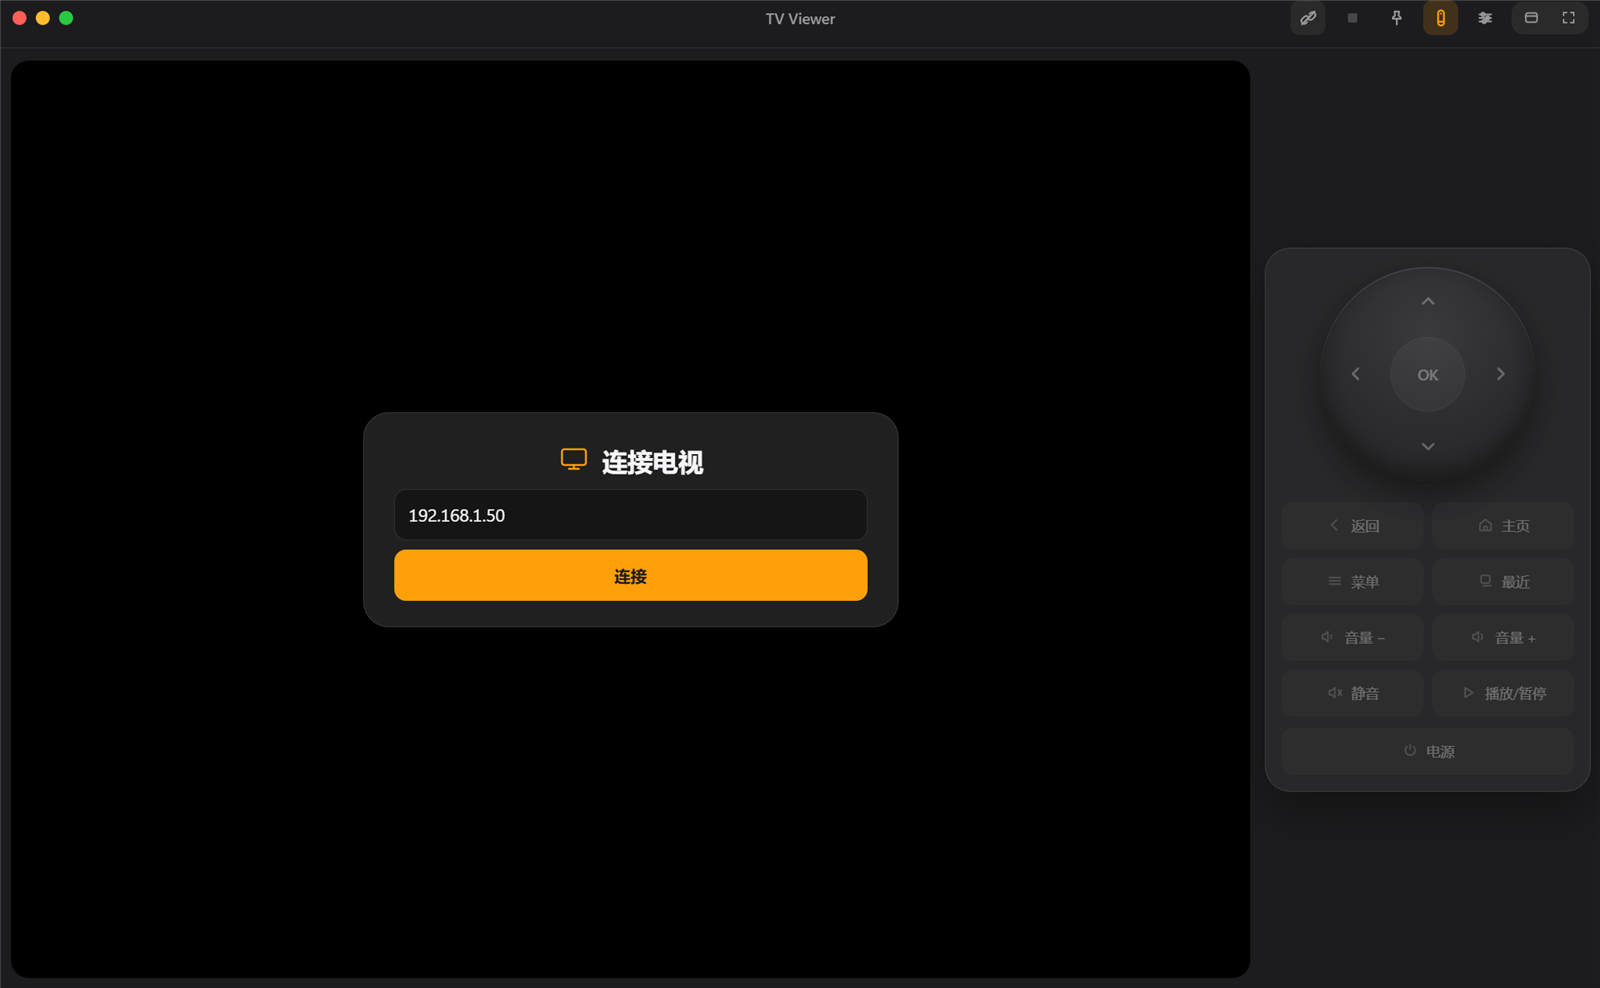
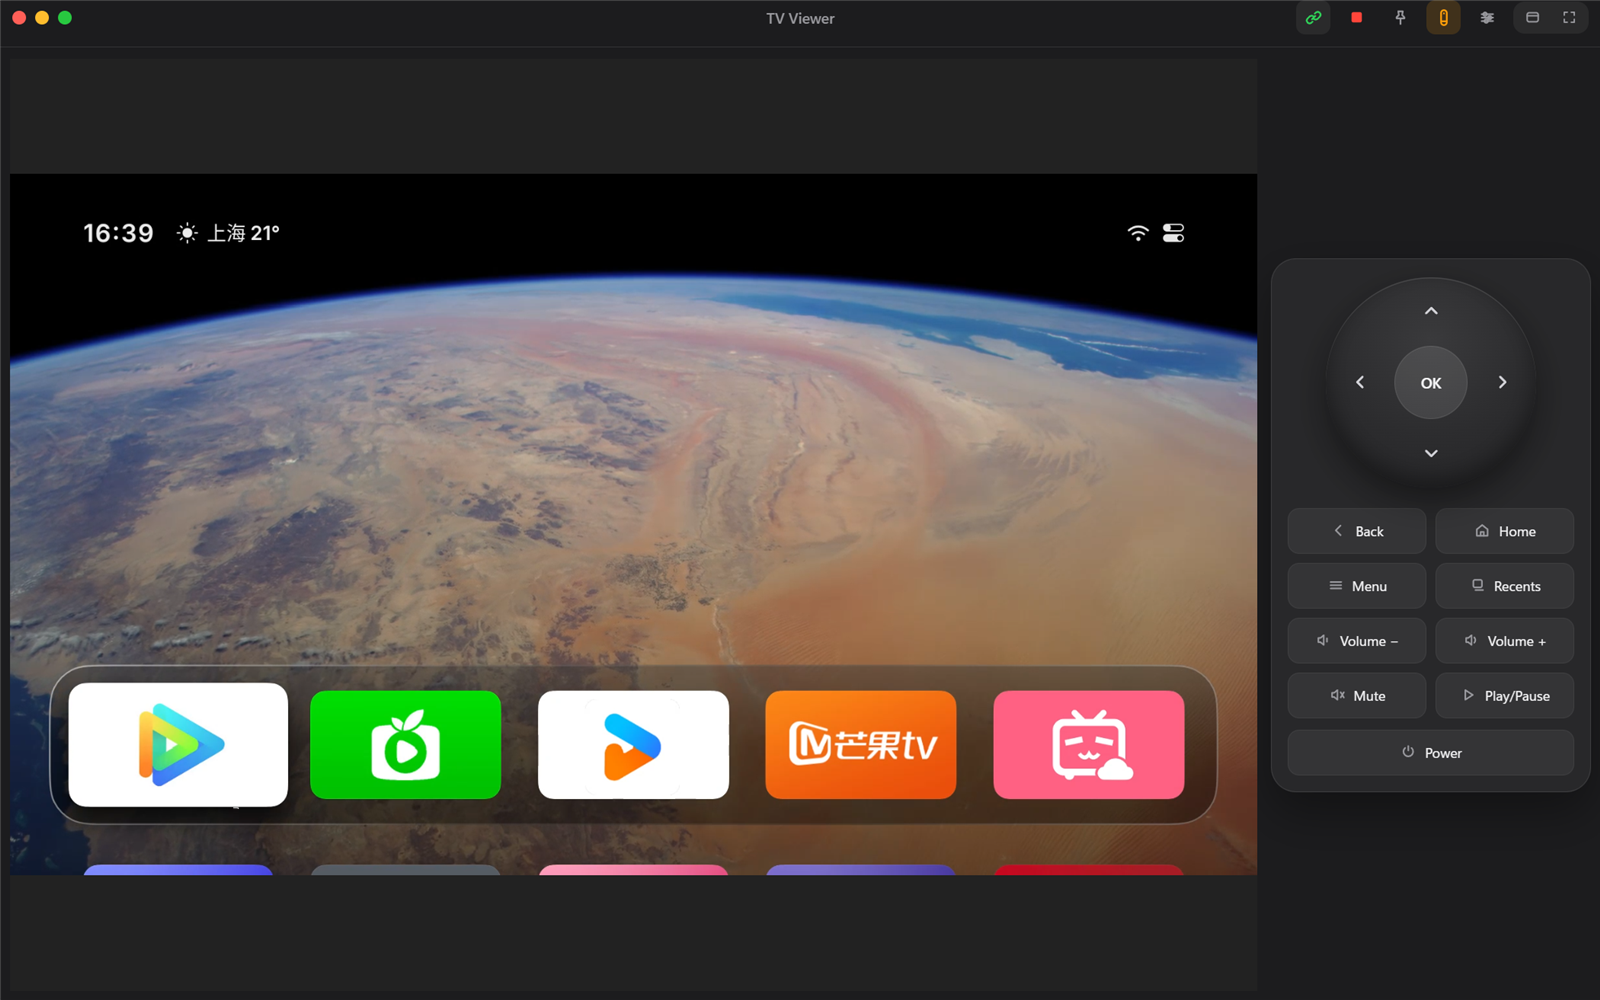
Reorganize project layout and use current app screenshot as hero
Rename remote to app, move CLI wrappers to cli/, move app docs to docs/, and replace the hero image with a real connected session.

diff --git a/README.md b/README.md
@@ -117,12 +117,21 @@ Get-FileHash .\tv-viewer-setup-0.1.0-x64.exe -Algorithm SHA256
 
 ```bash
 winget install Genymobile.scrcpy
-cd remote
+cd app
 npm install
 npm start
 ```
 
-装好依赖后也可以双击 `remote/tv-viewer.cmd`，不弹控制台。
+装好依赖后也可以双击 `app/tv-viewer.cmd`，不弹控制台。
+
+### 命令行（可选）
+
+```bash
+./cli/tv-view.sh 192.168.50.33
+./cli/tv-shot.sh before.png 192.168.50.33
+```
+
+Git Bash 用 `.sh`，cmd / PowerShell 用 `cli\tv-view.cmd` 和 `cli\tv-shot.cmd`。完整用法见 [cli/README.md](cli/README.md)。
 
 ## 快捷键
 
@@ -155,7 +164,7 @@ macOS、Linux 和其他电视型号尚未验证。
 - **需要 root 吗？** 不需要。
 - **有声音吗？** 没有，声音仍从电视出。
 - **支持 macOS / Linux 吗？** 命令行可以；带遥控器和窗口嵌入的 GUI 目前仅 Windows。
-- **支持 Android 4.x 吗？** 画面功能要求 Android 5.0+；4.x 只能用 `tv-shot` 截图。
+- **支持 Android 4.x 吗？** 画面功能要求 Android 5.0+；4.x 只能用 `cli/tv-shot` 截图。
 - **能同时连两台电视吗？** 一个窗口一台，多实例的全局快捷键会冲突。
 
 更多问题和排查步骤见 [故障排查](docs/TROUBLESHOOTING.md)。
@@ -186,10 +195,10 @@ macOS、Linux 和其他电视型号尚未验证。
 | --- | --- |
 | [故障排查](docs/TROUBLESHOOTING.md) | 连不上、授权、无线调试、嵌入失败、按键、重连、FAQ |
 | [开发与构建](docs/DEVELOPMENT.md) | 目录、IPC、窗口嵌入原理、配置字段、i18n、打包和发布 |
-| [应用细节](remote/README.md) | 界面、显示模式、遥控器、设置、已验证项 |
-| [设计系统](remote/DESIGN.md) | 颜色、字体、布局、组件和设计约束 |
-| [产品说明](remote/PRODUCT.md) | 目标用户、定位、能力边界 |
-| [第三方许可](remote/THIRD_PARTY_NOTICES.md) | scrcpy、adb、Electron 的许可说明（外部依赖不随包分发） |
+| [应用细节](docs/APP.md) | 界面、显示模式、遥控器、设置、已验证项 |
+| [设计系统](docs/DESIGN.md) | 颜色、字体、布局、组件和设计约束 |
+| [产品说明](docs/PRODUCT.md) | 目标用户、定位、能力边界 |
+| [第三方许可](app/THIRD_PARTY_NOTICES.md) | scrcpy、adb、Electron 的许可说明（外部依赖不随包分发） |
 | [贡献指南](CONTRIBUTING.md) | 报 bug、提 PR、代码约定 |
 | [安全说明](SECURITY.md) | 威胁模型、ADB 端口风险、加固建议 |
 | [更新日志](CHANGELOG.md) | 版本变更 |
@@ -200,7 +209,7 @@ macOS、Linux 和其他电视型号尚未验证。
 <summary>展开目录</summary>
 
 ```text
-remote/                  Electron 桌面应用
+app/                    Electron 桌面应用
   main.js                adb / scrcpy / 窗口嵌入 / IPC / 全局快捷键
   preload.js             contextBridge 暴露的最小 API
   renderer.js            界面状态、遥控按键、窗口拖动、画面区域上报
@@ -208,9 +217,20 @@ remote/                  Electron 桌面应用
   index.html style.css   无边框界面
   i18n.js                中英文文案
   electron-builder.yml   Windows 打包配置
-tv-view.sh / .cmd        命令行查看画面
-tv-shot.sh / .cmd        命令行截图
-docs/                    故障排查、开发与构建
+  build/ scripts/        图标与构建脚本
+  THIRD_PARTY_NOTICES.md 随安装包分发的第三方许可
+cli/                    命令行工具
+  tv-view.sh / .cmd      命令行查看画面
+  tv-shot.sh / .cmd      命令行截图
+  README.md              用法说明
+docs/                   项目文档
+  APP.md                 应用细节
+  DESIGN.md              设计系统
+  PRODUCT.md             产品说明
+  DEVELOPMENT.md         开发与构建
+  TROUBLESHOOTING.md     故障排查
+  images/                主图
+  releases/              版本发布说明
 ```
 
 主进程启动 scrcpy，渲染进程把画面区域的 CSS 矩形通过 IPC 报给主进程，PowerShell 用 `SetParent` 把 scrcpy 窗口嵌进 Electron 窗口并定位；按键走 `adb shell input keyevent`，不依赖 scrcpy 窗口焦点。
@@ -220,7 +240,7 @@ docs/                    故障排查、开发与构建
 ## 开发
 
 ```bash
-cd remote
+cd app
 npm install
 npm start       # 开发运行
 npm run check   # node --check 语法检查
@@ -229,7 +249,7 @@ npm run check   # node --check 语法检查
 打包 Windows 安装版和便携版：
 
 ```bash
-cd remote
+cd app
 npm run dist           # 产物在 dist/
 ```
 

diff --git a/README.en.md b/README.en.md
@@ -115,12 +115,21 @@ Requirements: Windows 10/11, Node.js 22+, scrcpy (which bundles adb).
 
 ```bash
 winget install Genymobile.scrcpy
-cd remote
+cd app
 npm install
 npm start
 ```
 
-ADB debugging must be enabled on the TV, and both devices must be on the same LAN. After the first install you can also double-click `remote/tv-viewer.cmd`.
+ADB debugging must be enabled on the TV, and both devices must be on the same LAN. After the first install you can also double-click `app/tv-viewer.cmd`.
+
+### CLI (optional)
+
+```bash
+./cli/tv-view.sh 192.168.50.33
+./cli/tv-shot.sh before.png 192.168.50.33
+```
+
+Use `.cmd` (`cli\tv-view.cmd`, `cli\tv-shot.cmd`) in cmd / PowerShell. See [cli/README.md](cli/README.md) for full usage.
 
 ## Shortcuts
 
@@ -153,7 +162,7 @@ macOS, Linux and other TV models are not verified.
 - **Is root required?** No.
 - **Is there audio?** No; audio still comes from the TV.
 - **macOS / Linux?** The CLI scripts work; the GUI with the embedded picture is Windows-only for now.
-- **Android 4.x?** The picture requires Android 5.0+; 4.x is limited to screenshots via `tv-shot`.
+- **Android 4.x?** The picture requires Android 5.0+; 4.x is limited to screenshots via `cli/tv-shot`.
 - **Two TVs at once?** One TV per window; multiple instances fight over the global shortcuts.
 
 More answers and diagnostics: [Troubleshooting](docs/TROUBLESHOOTING.md).
@@ -184,10 +193,10 @@ See [Security](SECURITY.md) for the threat model.
 | --- | --- |
 | [Troubleshooting](docs/TROUBLESHOOTING.md) | Connection, authorization, wireless debugging, embedding, keys, FAQ |
 | [Development](docs/DEVELOPMENT.md) | Layout, IPC, window embedding, config, i18n, packaging |
-| [App details](remote/README.md) | UI, display modes, remote, settings |
-| [Third-party notices](remote/THIRD_PARTY_NOTICES.md) | scrcpy, adb and Electron licenses |
-| [Design system](remote/DESIGN.md) | Colors, type, layout, components |
-| [Product notes](remote/PRODUCT.md) | Users, positioning, scope |
+| [App details](docs/APP.md) | UI, display modes, remote, settings |
+| [Third-party notices](app/THIRD_PARTY_NOTICES.md) | scrcpy, adb and Electron licenses |
+| [Design system](docs/DESIGN.md) | Colors, type, layout, components |
+| [Product notes](docs/PRODUCT.md) | Users, positioning, scope |
 | [Contributing](CONTRIBUTING.md) | Issues, PRs, code conventions |
 | [Security](SECURITY.md) | Threat model and hardening |
 | [Changelog](CHANGELOG.md) | Version history |
@@ -198,7 +207,7 @@ See [Security](SECURITY.md) for the threat model.
 <summary>Show the tree</summary>
 
 ```text
-remote/                  Electron app
+app/                    Electron app
   main.js                ADB / scrcpy / embedding / IPC / shortcuts
   preload.js             contextBridge API
   renderer.js            UI state, remote keys, window drag, stage rect
@@ -206,9 +215,20 @@ remote/                  Electron app
   index.html style.css   Frameless UI
   i18n.js                Chinese / English strings
   electron-builder.yml   Windows packaging
-tv-view.sh / .cmd        CLI picture viewer
-tv-shot.sh / .cmd        CLI screenshot
-docs/                    Troubleshooting, development, releases
+  build/ scripts/        Icon and build scripts
+  THIRD_PARTY_NOTICES.md Third-party licenses shipped with the installer
+cli/                    Command-line tools
+  tv-view.sh / .cmd      CLI picture viewer
+  tv-shot.sh / .cmd      CLI screenshot
+  README.md              Usage
+docs/                   Project documentation
+  APP.md                 App details
+  DESIGN.md              Design system
+  PRODUCT.md             Product notes
+  DEVELOPMENT.md         Development and packaging
+  TROUBLESHOOTING.md     Troubleshooting
+  images/                Hero image
+  releases/              Release notes
 ```
 
 The main process starts scrcpy; the renderer reports the stage rectangle over IPC; PowerShell uses `SetParent` to embed the scrcpy window and position it. Keys go through `adb shell input keyevent`, independent of the scrcpy window focus.
@@ -218,7 +238,7 @@ The main process starts scrcpy; the renderer reports the stage rectangle over IP
 ## Development
 
 ```bash
-cd remote
+cd app
 npm install
 npm start       # development
 npm run check   # node --check
@@ -227,7 +247,7 @@ npm run check   # node --check
 Package the installer and portable build:
 
 ```bash
-cd remote
+cd app
 npm run dist           # artifacts in dist/
 ```
 

diff --git a/docs/DEVELOPMENT.md b/docs/DEVELOPMENT.md
@@ -17,7 +17,7 @@
 ## 启动
 
 ```bash
-cd remote
+cd app
 npm install
 npm start
 ```
@@ -33,7 +33,7 @@ npm run check
 ## 目录
 
 ```
-remote/
+app/
   main.js              主进程：adb / scrcpy / 窗口嵌入 / IPC / 快捷键 / 配置
   preload.js           contextBridge 白名单
   renderer.js          界面状态、遥控按键、窗口拖动、画面矩形上报
@@ -47,9 +47,18 @@ remote/
   dist/                打包产物（不提交）
   THIRD_PARTY_NOTICES.md
   tv-viewer.cmd        双击启动（需先 npm install）
-tv-view.sh / .cmd      命令行查看画面
-tv-shot.sh / .cmd      命令行截图
-docs/                  故障排查、开发文档
+cli/                   命令行工具
+  tv-view.sh / .cmd    命令行查看画面
+  tv-shot.sh / .cmd    命令行截图
+  README.md            用法说明
+docs/                  项目文档
+  APP.md               应用细节
+  DESIGN.md            设计系统
+  PRODUCT.md           产品说明
+  DEVELOPMENT.md       开发与构建
+  TROUBLESHOOTING.md   故障排查
+  images/              主图
+  releases/            版本发布说明
 ```
 
 ## 进程模型
@@ -135,7 +144,7 @@ flowchart LR
 - 新增文案时同时补 `zh` 和 `en`，并在 HTML 里加对应 `data-i18n*`。可以用下面的命令检查两边 key 是否对齐：
 
 ```bash
-cd remote
+cd app
 node -e "global.window={};require('./i18n.js');const d=window.TV_I18N;const z=Object.keys(d.zh),e=Object.keys(d.en);console.log(z.length,e.length);console.log(z.filter(k=>!(k in d.en)),e.filter(k=>!(k in d.zh)))"
 ```
 
@@ -150,7 +159,7 @@ node -e "global.window={};require('./i18n.js');const d=window.TV_I18N;const z=Ob
 
 ## 打包
 
-使用 electron-builder，配置在 `remote/electron-builder.yml`。
+使用 electron-builder，配置在 `app/electron-builder.yml`。
 
 1. 安装依赖：`npm install`
 2. 图标已经提交在 `build/icon.ico`。改设计时运行 `npm run make-icon` 重新生成 PNG，再用仓库里的方式转成 ICO。
@@ -173,7 +182,7 @@ npm run pack    # 只生成 dist/win-unpacked/，用于快速验证
 - `app.asar.unpacked/embed-scrcpy.ps1`：PowerShell 必须能按真实路径执行，所以用 `asarUnpack` 解包；
 - `THIRD_PARTY_NOTICES.md`、`LICENSE.txt`。
 
-安装包不包含 scrcpy / adb，体积只包含 Electron 应用本身。运行时 `findAdb()` / `findScrcpy()` 按 `ADB` / `SCRCPY` 环境变量、Android SDK、PATH、WinGet 安装位置的顺序查找。`app.isPackaged` 为真时，`embed-scrcpy.ps1` 从 `app.asar.unpacked` 读取；开发运行时仍用 `remote/` 下的文件。
+安装包不包含 scrcpy / adb，体积只包含 Electron 应用本身。运行时 `findAdb()` / `findScrcpy()` 按 `ADB` / `SCRCPY` 环境变量、Android SDK、PATH、WinGet 安装位置的顺序查找。`app.isPackaged` 为真时，`embed-scrcpy.ps1` 从 `app.asar.unpacked` 读取；开发运行时仍用 `app/` 下的文件。
 
 许可证：scrcpy 和 adb 由用户自行安装，不随本应用分发，各自遵循 Apache-2.0；`THIRD_PARTY_NOTICES.md` 只说明依赖关系。Electron 的 MIT 许可见安装目录里的 Electron 许可文件。
 
@@ -183,13 +192,13 @@ npm run pack    # 只生成 dist/win-unpacked/，用于快速验证
 
 ## 发布
 
-1. 更新 `remote/package.json` 的 `version` 和 `CHANGELOG.md`。
-2. `cd remote && npm run check`。
+1. 更新 `app/package.json` 的 `version` 和 `CHANGELOG.md`。
+2. `cd app && npm run check`。
 3. `npm run dist`，然后用 `git` 确认产物在 `dist/`（不提交）。
 4. 生成校验文件：
 
 ```bash
-cd remote/dist
+cd app/dist
 sha256sum *.exe > SHA256SUMS.txt
 ```
 

diff --git a/docs/TROUBLESHOOTING.md b/docs/TROUBLESHOOTING.md
@@ -74,7 +74,7 @@ adb connect 192.168.50.33:5555
 
 ```bash
 set ADB=C:\path\to\adb.exe
-cd remote
+cd app
 npm start
 ```
 
@@ -105,7 +105,7 @@ adb tcpip 5555
 adb connect 192.168.50.33:5555
 ```
 
-之后应用就可以走网络连接。GUI 走网络地址（`IP[:端口]`）；命令行 `tv-view.sh` 可以直接用 USB serial 连接并查看画面。
+之后应用就可以走网络连接。GUI 走网络地址（`IP[:端口]`）；命令行 `cli/tv-view.sh` 可以直接用 USB serial 连接并查看画面。
 
 ### 有多台设备
 
@@ -129,7 +129,7 @@ winget install Genymobile.scrcpy
 
 ```bash
 set SCRCPY=C:\path\to\scrcpy.exe
-cd remote
+cd app
 npm start
 ```
 
@@ -173,7 +173,7 @@ Get-Process scrcpy | Select-Object Id, MainWindowTitle, MainWindowHandle
 - GUI 按原生分辨率显示画面。网络差时改用命令行降码率：
 
 ```bash
-./tv-view.sh 192.168.50.33 --max-size=1280 --video-bit-rate=4M
+./cli/tv-view.sh 192.168.50.33 --max-size=1280 --video-bit-rate=4M
 ```
 
 - 同一台电视不要同时开多个 scrcpy；
@@ -230,7 +230,7 @@ Get-Process scrcpy | Select-Object Id, MainWindowTitle, MainWindowHandle
 
 - GUI 的窗口嵌入只实现了 Windows，依赖 `user32.dll`。
 - 命令行脚本在 macOS / Linux 上可以用（需要 scrcpy、adb），但没有窗口嵌入和遥控器界面。
-- scrcpy 要求 Android 5.0+；4.x 的 Lite 电视只能用 `tv-shot` 截图。
+- scrcpy 要求 Android 5.0+；4.x 的 Lite 电视只能用 `cli/tv-shot` 截图。
 - Android 手机理论上也能连，但不是这个项目的验证目标。
 
 ## 配置与日志
@@ -247,7 +247,7 @@ Get-Process scrcpy | Select-Object Id, MainWindowTitle, MainWindowHandle
 
 看日志：
 
-- 从终端运行 `cd remote && npm start`，全局快捷键注册结果会打印在终端；
+- 从终端运行 `cd app && npm start`，全局快捷键注册结果会打印在终端；
 - scrcpy 的 stdout / stderr 默认被丢弃（`startScrcpy()` 里的 `stdio: 'ignore'`）。调试时临时改成 `'inherit'` 就能看到 scrcpy 的输出。
 
 ## FAQ
@@ -271,7 +271,7 @@ Get-Process scrcpy | Select-Object Id, MainWindowTitle, MainWindowHandle
 查看画面只需要局域网。首次安装 Node、scrcpy 等依赖需要联网。
 
 **能截图/录屏吗？**
-应用内不能。用 `./tv-shot.sh` 截图。
+应用内不能。用 `./cli/tv-shot.sh` 截图。
 
 **支持 macOS / Linux 吗？**
 命令行可以；带遥控器的 GUI 尚未实现。

diff --git a/cli/README.md b/cli/README.md
@@ -1,0 +1,44 @@
+# CLI tools
+
+Two thin wrappers around scrcpy and adb, for when you do not need the GUI. They require `scrcpy` and `adb` on PATH or the default install locations; see the main [README](../README.md).
+
+## tv-view
+
+Show the TV picture with scrcpy. The first non-flag argument is the TV address; the rest is passed to scrcpy.
+
+```bash
+./cli/tv-view.sh                     # $TV or the only connected device
+./cli/tv-view.sh 192.168.50.33       # connect over ADB, then show the picture
+./cli/tv-view.sh 192.168.50.33 --max-size=1280 --video-bit-rate=4M
+```
+
+Windows cmd / PowerShell:
+
+```bat
+cli\tv-view.cmd 192.168.50.33
+```
+
+## tv-shot
+
+Save one PNG of the TV screen. Works on Android 4.x as well (the picture viewer requires Android 5.0+).
+
+```bash
+./cli/tv-shot.sh                     # tv-shot.png from $TV or the only device
+./cli/tv-shot.sh before.png 192.168.50.33
+```
+
+Windows cmd / PowerShell:
+
+```bat
+cli\tv-shot.cmd before.png 192.168.50.33
+```
+
+## Environment
+
+| Variable | Used by | Meaning |
+| --- | --- | --- |
+| `TV` | both | Default TV address |
+| `ADB` | both | Path to `adb.exe` |
+| `SCRCPY` | `tv-view` | Path to `scrcpy.exe` |
+
+The GUI uses the same `TV`, `ADB` and `SCRCPY` variables. See [Troubleshooting](../docs/TROUBLESHOOTING.md) if the CLI cannot find a device or scrcpy.
